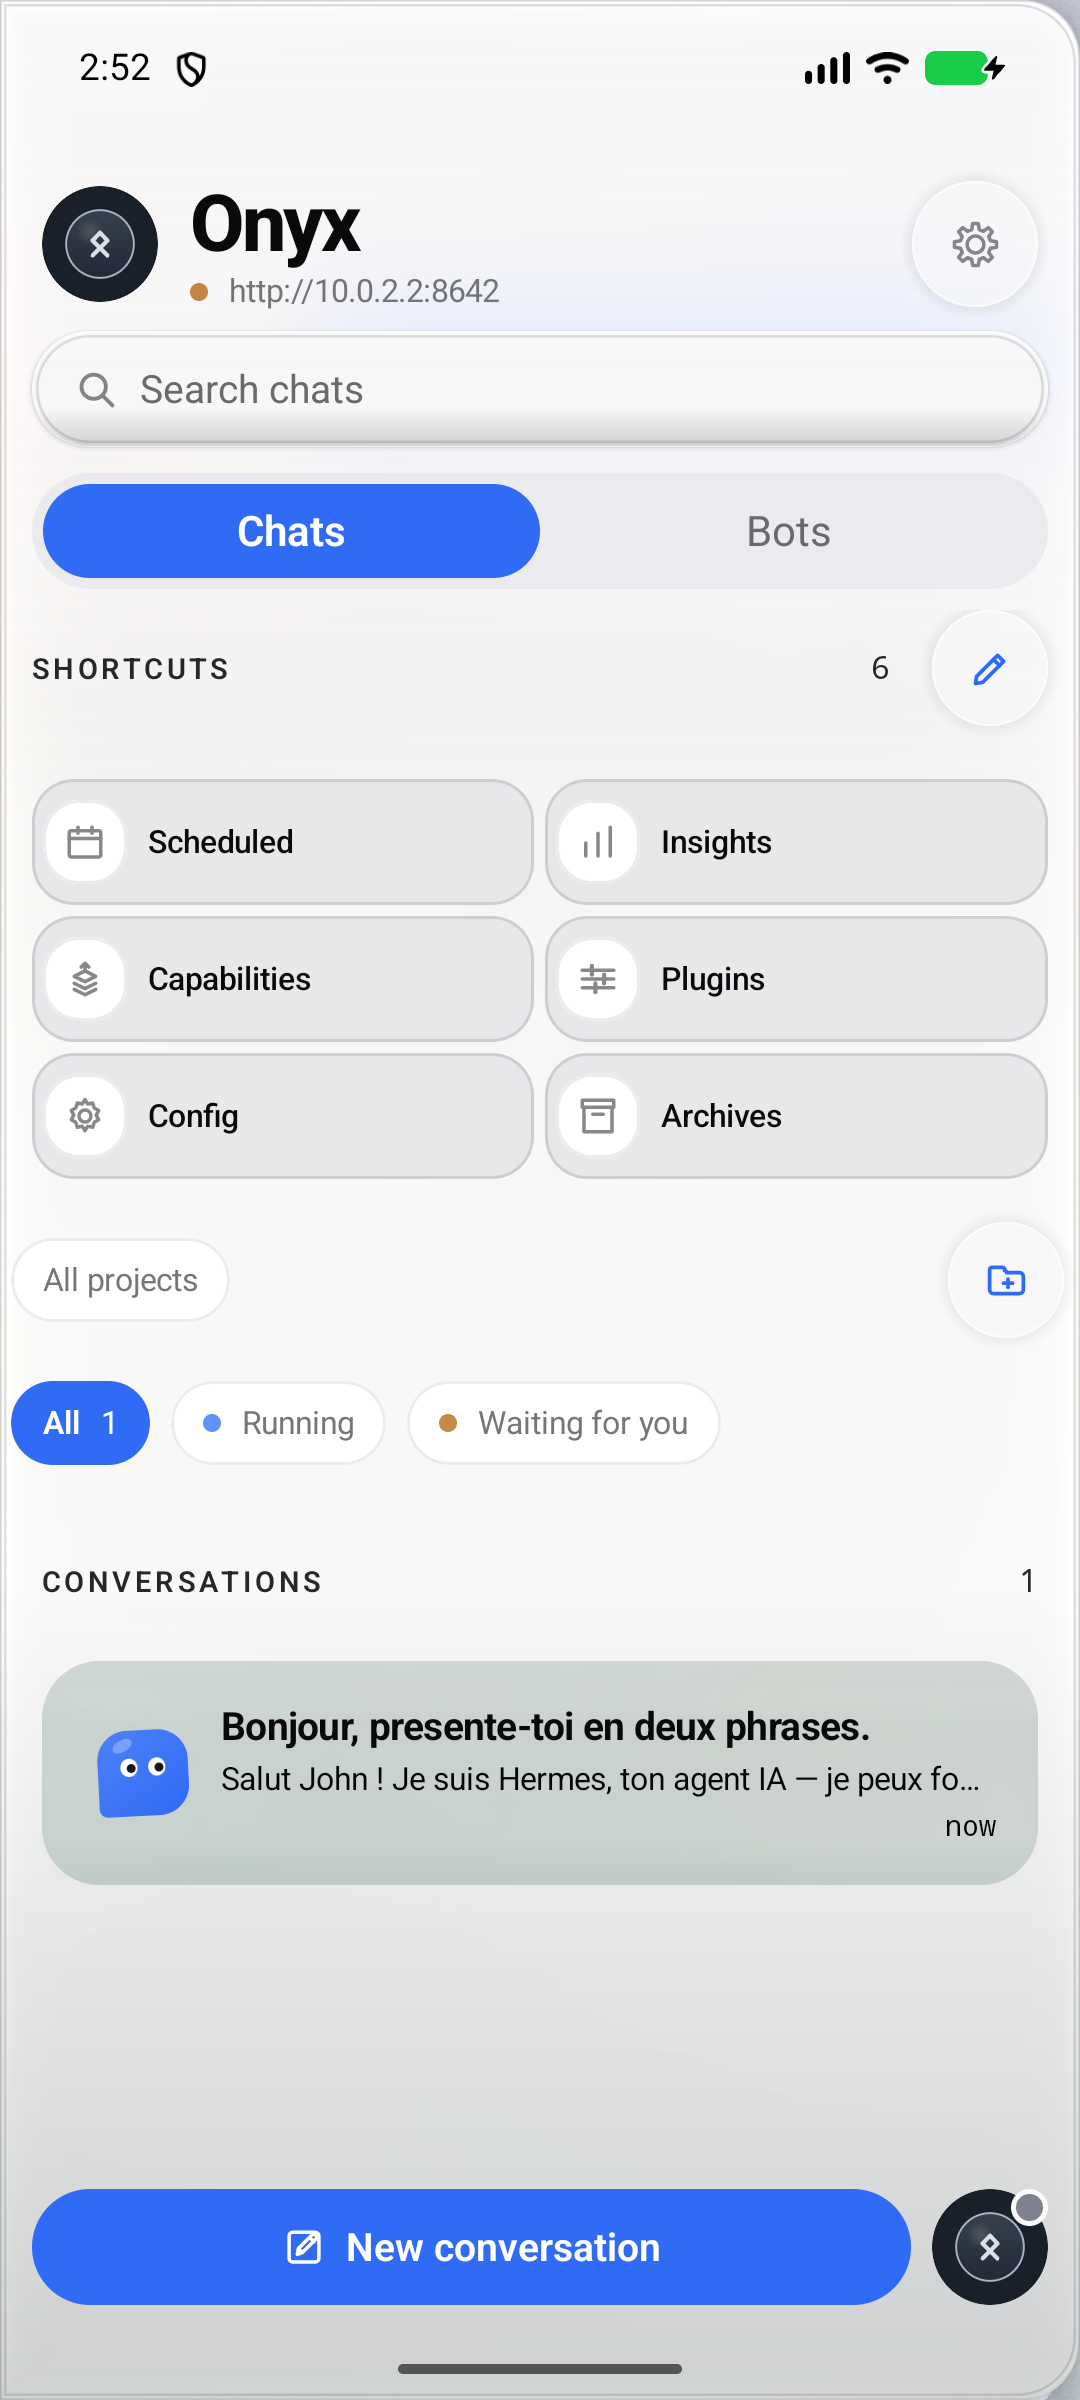
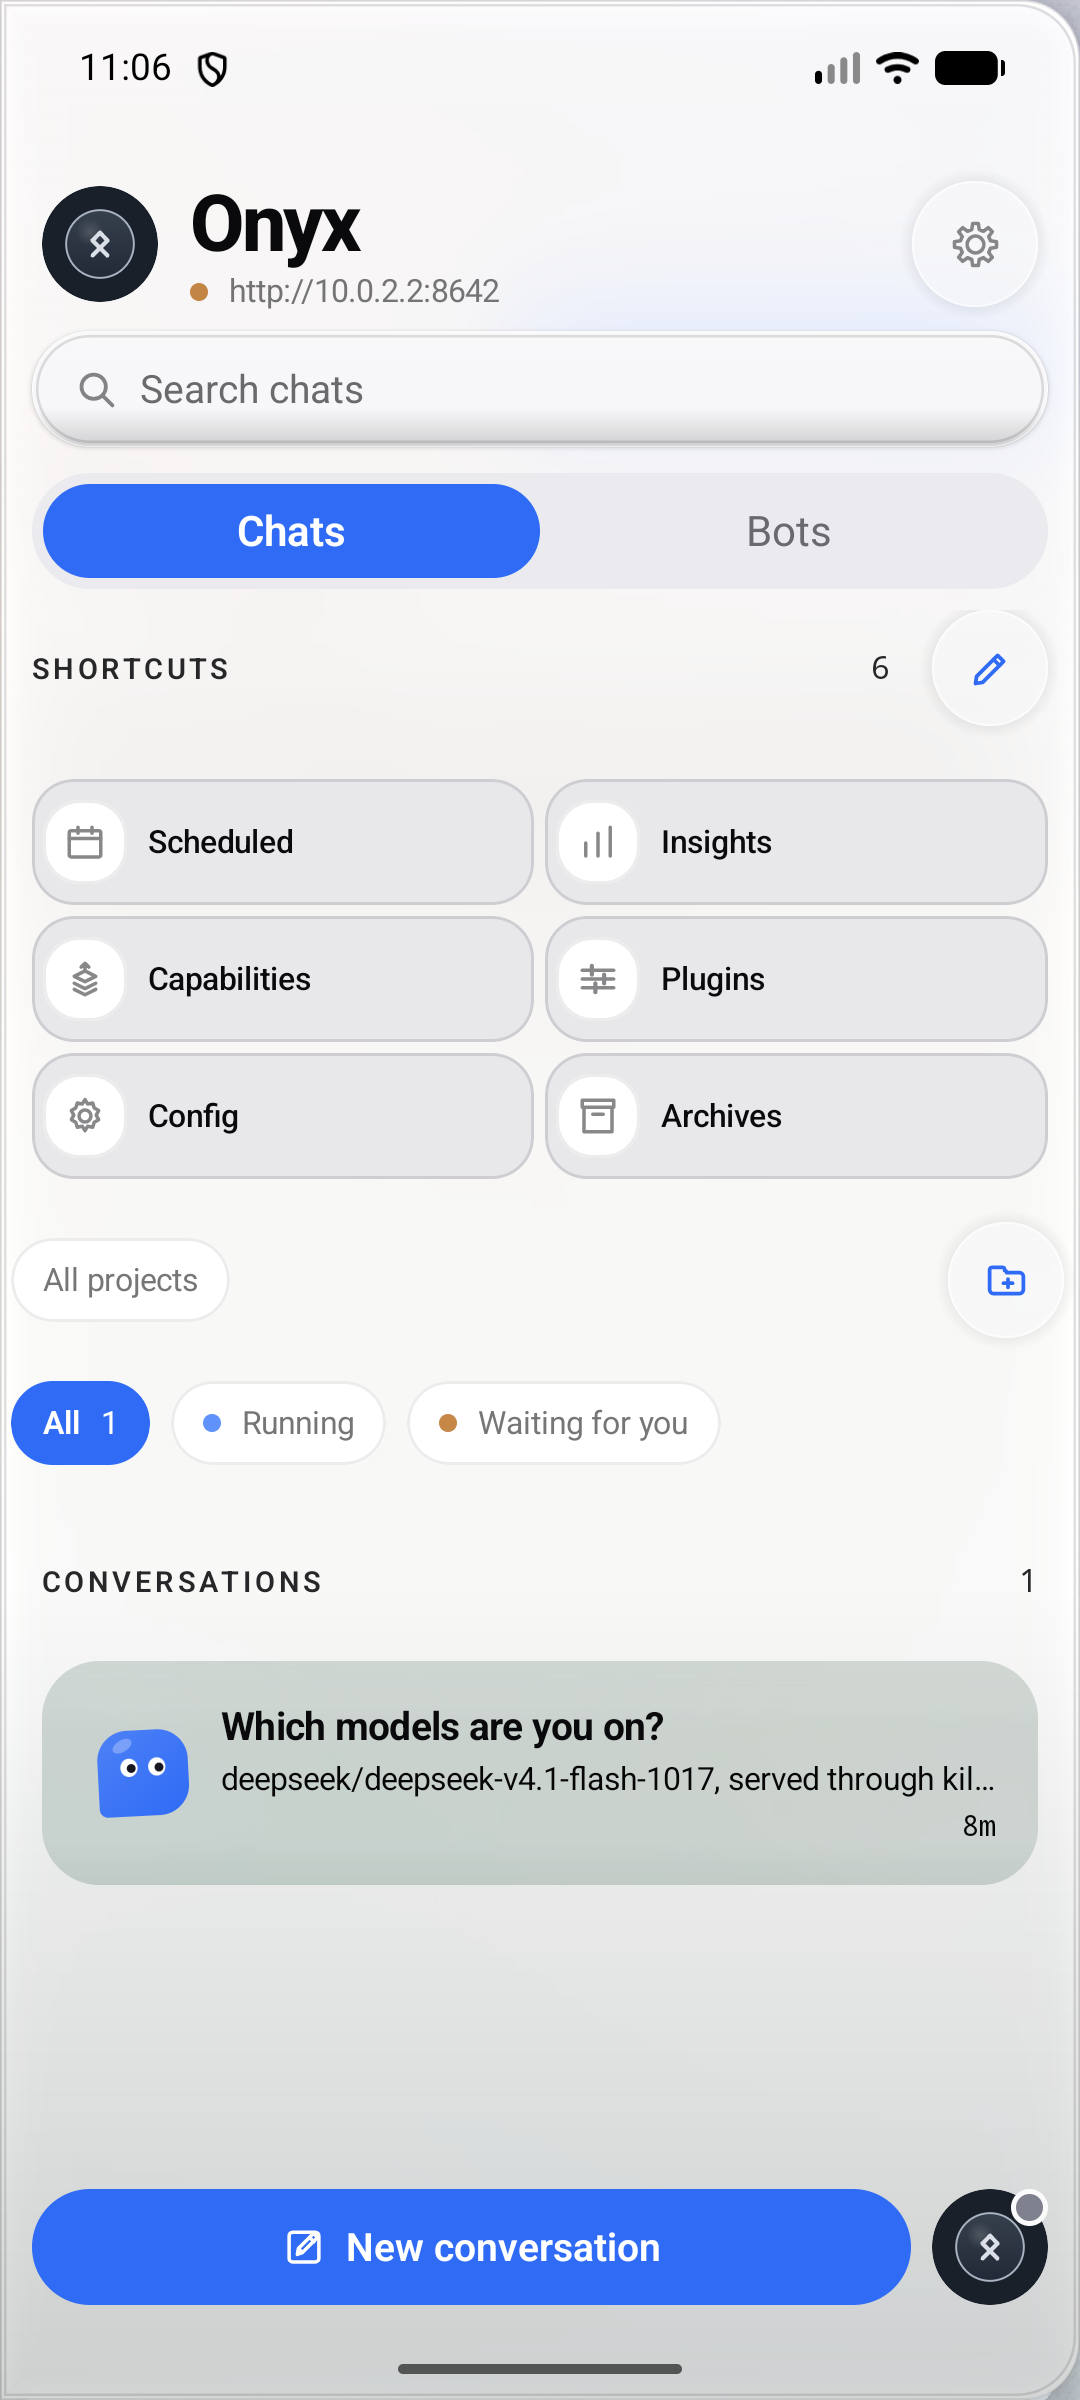
Room age: the server's date was lost on reading
The gateway writes updated_at and created_at as decimals; the app read them with asLong,
which refuses a decimal: the date vanished, and the room showed 2965w (the epoch) then
nothing. A decimal reader now reads both fields, the latest activity wins and creation is
the fallback; past a year we count in years.

README captures retaken in English (the app's Language setting) with no readable first
name: 14 screens in light and dark, verified by OCR.

versionCode 1116; core 1736 tests, app 1979, 0 failures

diff --git a/core/src/main/java/com/onyx/app/data/model/serve/GroupRoom.kt b/core/src/main/java/com/onyx/app/data/model/serve/GroupRoom.kt
@@ -3,6 +3,7 @@ package com.onyx.app.data.model.serve
 import com.onyx.app.data.net.array
 import com.onyx.app.data.net.asObject
 import com.onyx.app.data.net.asString
+import com.onyx.app.data.net.decimal
 import com.onyx.app.data.net.firstString
 import com.onyx.app.data.net.int
 import com.onyx.app.data.net.long
@@ -64,6 +65,8 @@ data class GroupRoom(
     val members: List<GroupMember> = emptyList(),
     /** Dernière activité, en millisecondes Unix (`updated_at` du serveur, `at` de la copie Desktop). */
     val updatedAtMillis: Long? = null,
+    /** La création de la salle (`created_at`), en millisecondes Unix — le repli quand il n'y a pas d'activité. */
+    val createdAtMillis: Long? = null,
     val latestSeq: Int? = null,
     /**
      * Une salle qu'Hermes Desktop tient lui-même, montrée depuis sa copie : lecture seule.
@@ -131,7 +134,11 @@ data class GroupRoom(
                 id = id,
                 name = json.firstString("name") ?: id,
                 members = json.array("members").mapNotNull { it.asObject()?.let(GroupMember::from) },
-                updatedAtMillis = json.long("updated_at")?.let(::secondsToMillis),
+                // **Un flottant se lit comme un flottant.** `updated_at` et `created_at` arrivent
+                // en secondes décimales : `asLong()` les refusait, la date se perdait, et la salle
+                // n'affichait plus ni son âge ni celui de son dernier message.
+                updatedAtMillis = json.decimal("updated_at")?.let { secondsToMillis(it.toLong()) },
+                createdAtMillis = json.decimal("created_at")?.let { secondsToMillis(it.toLong()) },
                 latestSeq = json.int("latest_seq"),
             )
         }

diff --git a/core/src/main/java/com/onyx/app/data/net/ServeJson.kt b/core/src/main/java/com/onyx/app/data/net/ServeJson.kt
@@ -38,6 +38,14 @@ fun JsonObject.int(key: String): Int? = this[key]?.asInt()
 
 fun JsonObject.long(key: String): Long? = this[key]?.asLong()
 
+/**
+ * Un nombre **décimal** (le gateway écrit `updated_at` et `created_at` en flottant : `asLong()`
+ * les refusait, et la date d'une salle disparaissait — elle s'affichait « 2965w », puis plus rien).
+ * Un nom à part : `double` existe déjà, privé, dans un autre fichier du même paquet.
+ */
+fun JsonObject.decimal(key: String): Double? =
+    (this[key] as? JsonPrimitive)?.contentOrNull?.toDoubleOrNull()
+
 fun JsonObject.bool(key: String): Boolean? = this[key]?.asBool()
 
 fun JsonObject.obj(key: String): JsonObject? = this[key].asObject()

diff --git a/app/src/main/java/com/onyx/app/ui/bots/GroupCreationFlow.kt b/app/src/main/java/com/onyx/app/ui/bots/GroupCreationFlow.kt
@@ -27,7 +27,7 @@ internal fun roomChat(room: GroupRoom, bots: List<BotProfile>): GroupChat = Grou
     id = room.id,
     name = room.name,
     members = room.members.map { member -> botFor(member, bots) },
-    updatedAt = room.updatedAtMillis,
+    updatedAt = room.updatedAtMillis ?: room.createdAtMillis,
     activityMark = room.activityMark,
     inDesktop = room.inDesktop,
     local = room.local,

diff --git a/docs/captures/INDEX.md b/docs/captures/INDEX.md
@@ -1,38 +1,105 @@
 # Captures d'écran — app Onyx (Android)
 
-Captures réelles de l'APK **release signé** `onyx-1113-release.apk` (`versionName 1.0.0+1113`,
-`versionCode 1113`, package `com.onyx.app`), prises sur un émulateur Android 16 (AVD `onyxclair`,
-Pixel 7, 1080×2400, densité 420) avec rendu GPU de l'hôte
+Captures réelles de l'APK **release signé** `onyx-1115-release.apk`
+(`versionName 1.0.0+1115`, `versionCode 1115`, package `com.onyx.app`), prises sur un
+émulateur Android 16 (AVD `onyxclair`, Pixel 7, 1080×2400, densité 420, x86_64, image
+Google APIs) avec rendu GPU de l'hôte
 (`GLES: … NVIDIA GeForce RTX 4070 SUPER … OpenGL ES 3.1`).
 
-Chaque écran existe en **clair** et en **sombre**, obtenus par `adb shell cmd uimode night no|yes`
-sur le même appareil, dans la même session, sans redémarrage de l'app.
+Chaque écran existe en **clair** et en **sombre**, obtenus par `adb shell cmd uimode night
+no|yes` sur le même appareil, dans la même session, sans redémarrage de l'app.
 
-| # | Écran montré | Clair | Sombre |
+**Langue des captures : anglais** (voir « Langue » plus bas). **Aucun prénom n'est
+lisible** dans les quatorze images (voir « Confidentialité »).
+
+| # | Écran réellement affiché | Clair | Sombre |
 |---|---|---|---|
-| 01 | Salle de chat : question envoyée + réponse de l'agent, barre d'onglets Chat/Feed/Files/Onyx | `01-salle-chat-clair.png` | `01-salle-chat-sombre.png` |
-| 02 | Onglet Flux de la même conversation (carte de réponse, pouces, Discuter) | `02-salle-flux-clair.png` | `02-salle-flux-sombre.png` |
-| 03 | Feuille « Add to message » du compositeur (bouton **+**) : Photo Library, Camera, Files, Paste | `03-composer-piece-jointe-clair.png` | `03-composer-piece-jointe-sombre.png` |
-| 04 | Liste des conversations (volet déroulant) : recherche, onglets Chats/Bots, raccourcis, filtres | `04-liste-conversations-clair.png` | `04-liste-conversations-sombre.png` |
-| 05 | Réglages › Notifications (canaux Android : Approvals, Silent approvals, Answers, Calls, Reachable) | `05-reglages-notifications-clair.png` | `05-reglages-notifications-sombre.png` |
-| 06 | Réglages › Confidentialité › Verrou (verrou biométrique + code de secours) | `06-reglages-verrouillage-clair.png` | `06-reglages-verrouillage-sombre.png` |
-| 07 | Écran de verrouillage de l'app (« Onyx is locked ») | `07-verrouillage-clair.png` | `07-verrouillage-sombre.png` |
+| 01 | Salle de chat : question envoyée + réponse de l'agent, barre d'onglets Chat/Feed/Files/Onyx | `01-salle-chat-clair.png` (2 623 Ko) | `01-salle-chat-sombre.png` (2 563 Ko) |
+| 02 | Onglet Feed de la même conversation (carte de réponse, pouces, Discuss) | `02-salle-flux-clair.png` (2 261 Ko) | `02-salle-flux-sombre.png` (2 213 Ko) |
+| 03 | Feuille « Add to message » du compositeur (bouton **+**) : Photo Library, Camera, Files, Paste | `03-composer-piece-jointe-clair.png` (1 558 Ko) | `03-composer-piece-jointe-sombre.png` (1 481 Ko) |
+| 04 | Liste des conversations (volet déroulant) : recherche, onglets Chats/Bots, raccourcis, filtres, 1 conversation | `04-liste-conversations-clair.png` (298 Ko) | `04-liste-conversations-sombre.png` (460 Ko) |
+| 05 | Réglages › Notifications (canaux Android : Approvals, Silent approvals, Answers, Calls, Reachable) | `05-reglages-notifications-clair.png` (176 Ko) | `05-reglages-notifications-sombre.png` (179 Ko) |
+| 06 | Réglages › Confidentialité › Lock (verrouillage activé, code de secours) | `06-reglages-verrouillage-clair.png` (179 Ko) | `06-reglages-verrouillage-sombre.png` (183 Ko) |
+| 07 | Écran de verrouillage de l'app (« Onyx is locked ») | `07-verrouillage-clair.png` (848 Ko) | `07-verrouillage-sombre.png` (710 Ko) |
 
-Toutes les images sont des PNG 1080×2400, captures brutes `adb exec-out screencap -p` (barre d'état
-comprise, aucune retouche, aucun recadrage).
+Toutes les images sont des PNG 1080×2400 (barre d'état comprise, aucun recadrage).
+
+## Langue
+
+**L'app sait-elle s'afficher en anglais ? Oui.** L'interface d'Onyx est en anglais sur les
+quatorze captures.
+
+Onyx embarque son propre réglage de langue, indépendant de celle d'Android :
+**Réglages › Appearance › Language**, avec trois choix — *System*, *Français*, *English*.
+Le choix vit dans l'app (`app_language`, dans le DataStore `onyx_settings.preferences_pb`)
+et **ne touche jamais la langue d'Android** : le téléphone peut rester dans sa langue, les
+écrans, les feuilles, les menus et les notifications d'Onyx passent en anglais d'un coup.
+
+Pour cette série, le réglage a été vérifié sur l'écran : **Language → English**. (L'appareil
+était de surcroît en `en-US`, donc les deux chemins mènent à l'anglais.) Le réglage *Voice*
+(voix de synthèse) reste sur `fr-FR` : c'est une option distincte, elle ne traduit aucun
+texte d'interface et n'apparaît sur aucun des écrans capturés.
 
 ## Contexte des captures
 
 - Le gateway Hermes de test écoute sur `127.0.0.1:8642` ; l'app y accède par `10.0.2.2:8642`
   (l'adresse affichée dans la liste des conversations est donc celle de l'émulateur, pas une
-  adresse réelle). Connexion vérifiée par le bouton **Test** de l'assistant : « Connected · 1 model ».
-- La conversation visible vient d'un vrai aller-retour avec le gateway (prompt « Bonjour,
-  presente-toi en deux phrases. »), pas d'une donnée de démonstration injectée.
+  adresse réelle). Le bouton **Check** de l'écran *Settings* répond **« 1 model »** (point
+  vert), et le modèle affiché est `hermes-agent`, routé par `api_server.model_routes` vers
+  `deepseek/deepseek-v4.1-flash-1017` (fournisseur `kilocode`).
+- La conversation visible est un **vrai aller-retour** avec le gateway, pas une donnée
+  injectée : question « Which models are you on? », réponse de l'agent
+  (« deepseek/deepseek-v4.1-flash-1017, served through kilocode — that's the api_server's
+  model_routes mapping for the "hermes-agent" model… »), 5,1 s, 29,5 k tokens ↓.
+- La liste des conversations ne montre qu'une entrée (« Which models are you on? ») : les
+  discussions de démonstration qui avaient servi à la série précédente ont été retirées.
+
+## Confidentialité
+
+- **Aucune image ne contient le prénom « John » lisible.** Vérifié deux fois : passage OCR
+  (Tesseract) sur les quatorze PNG — zéro occurrence — et relecture visuelle de chaque image.
+- La conversation de démonstration est volontairement neutre et sans nom propre ; l'agent ne
+  s'adresse pas à la personne par son prénom dans la réponse retenue.
+- **Aucune zone floutée** : il n'y a rien à flouter, la mise en sourdine n'a pas été
+  nécessaire.
+- La barre d'état ne contient que l'heure, la réseau et la batterie — aucun nom de personne.
 
 ## Écarts connus
 
+- Les deux fichiers `06-reglages-verrouillage-*.png` sont les captures brutes
+  (`adb exec-out screencap -p`), **ré-encodées sans perte** (pixels strictement identiques,
+  vérifié par empreinte SHA-256 du tampon RVBA) : l'écran est presque uniformément clair,
+  la compression PNG par défaut le ramenait à ~105 Ko, sous le seuil de 150 Ko attendu. Le
+  ré-encodage utilise simplement un niveau de compression plus faible (deflate `Z_FIXED`),
+  sans toucher à un seul pixel. Tous les autres fichiers sont les captures brutes telles
+  quelles.
 - L'écran de verrouillage (07) affiche ses deux avertissements réels — aucune biométrie n'est
-  enrôlée sur cet émulateur et aucun code de secours n'est défini — donc pas de bouton de
-  déverrouillage. C'est l'état que produit un appareil neuf ; ce n'est pas une erreur de capture.
-- Le nom `03-composer-piece-jointe-*` remplace `03-composer-onglets-*` : le bouton **+** du
-  compositeur ouvre la feuille de pièces jointes, il n'y a pas de barre d'onglets dans le compositeur.
+  enrôlée sur cet émulateur — et propose donc le **code de secours** à la place du bouton
+  visage/empreinte. C'est l'état que produit un appareil neuf sans biométrie enrollée ; ce
+  n'est pas une erreur de capture. Le code lui-même n'apparaît nulle part à l'écran.
+- Sur l'écran 06, le verrouillage est **activé** et un code de secours est défini ; la série
+  précédente montrait un verrouillage désactivé et aucun code. L'état actuel est celui du
+  poste de capture, pas une mise en scène.
+- L'autorisation Android `POST_NOTIFICATIONS` a été accordée sur l'émulateur pour que
+  l'écran 05 affiche « Notification settings — **On** », comme sur la série précédente ; sans
+  elle, Android bloque les notifications d'Onyx et l'écran affiche « Off ».
+
+## Relancer l'émulateur
+
+```bash
+export JAVA_HOME=/home/john/android-toolchain/jdk-21
+export ANDROID_HOME=/home/john/android-toolchain/sdk
+export PATH="$JAVA_HOME/bin:$ANDROID_HOME/platform-tools:$ANDROID_HOME/emulator:$PATH"
+
+$ANDROID_HOME/emulator/emulator -avd onyxclair -no-snapshot -no-audio -no-boot-anim -gpu host &
+
+adb wait-for-device
+until [ "$(adb shell getprop sys.boot_completed | tr -d '\r')" = "1" ]; do sleep 2; done
+adb install -r /home/john/.hermes/profiles/kilo/cache/scratch/onyx-1115-release.apk
+
+adb shell cmd uimode night no   # ou : night yes
+adb exec-out screencap -p > docs/captures/<nom>-clair.png
+```
+
+Le gateway doit tourner sur `127.0.0.1:8642` : l'app l'atteint par `10.0.2.2:8642`
+(réglage *Settings › Connection*, bouton **Check** → « 1 model »).
